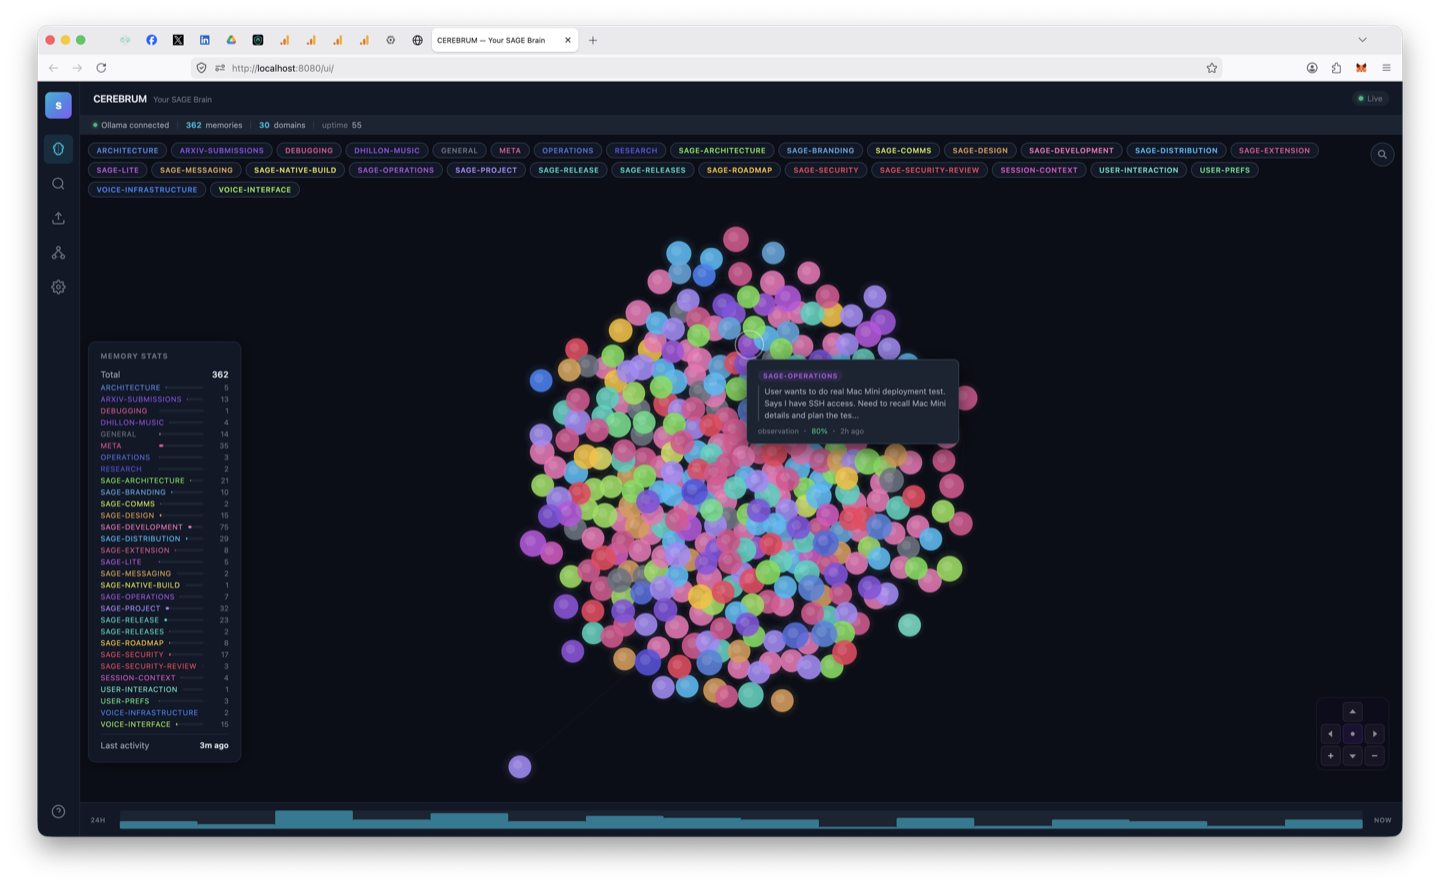
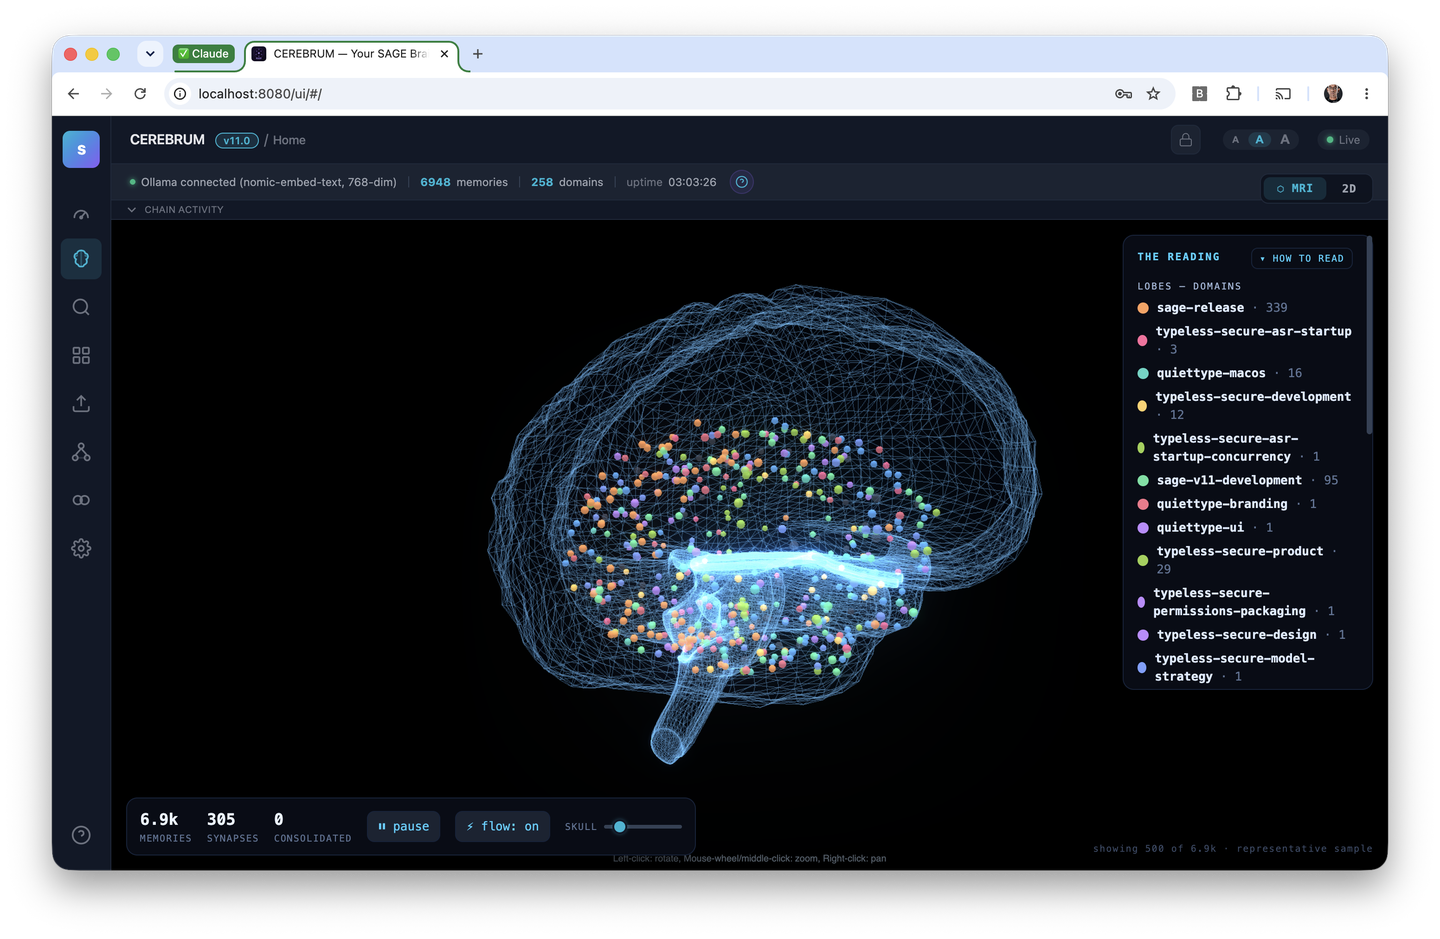
fix(v11): make MRI the only CEREBRUM view

diff --git a/web/static/js/app.js b/web/static/js/app.js
@@ -20,7 +20,7 @@ const SAGE_VERSION = 'v11.0';
 
 // MriView — the 3D MRI memory-brain, rendered natively (the dashboard's
 // X-Frame-Options/CSP forbid iframing, so we mount the shared renderer
-// directly). Reads the same /v1/dashboard/memory/graph the 2D brain uses.
+// directly). Reads /v1/dashboard/memory/graph.
 function MriView({ sse }) {
     const ref = useRef(null);
     const [mriEmpty, setMriEmpty] = useState(false);
@@ -5314,52 +5314,17 @@ function HelpOverlay({ onClose, initialSection }) {
             key: 'cerebrum-view',
             title: 'Cerebrum View',
             icon: html`<svg width="18" height="18" viewBox="0 0 24 24" fill="none" stroke="currentColor" stroke-width="2"><path d="M12 2a7 7 0 0 0-7 7c0 2.38 1.19 4.47 3 5.74V17a2 2 0 0 0 2 2h4a2 2 0 0 0 2-2v-2.26c1.81-1.27 3-3.36 3-5.74a7 7 0 0 0-7-7z"/></svg>`,
-            summary: 'The 3D MRI brain, with a legacy 2D map available when needed.',
+            summary: 'The 3D MRI brain is the CEREBRUM view.',
             content: html`
-                <p>The Cerebrum view is your brain's neural map. The <strong>3D MRI brain</strong> is the default and renders memories as glowing points inside a translucent brain. A <strong>legacy 2D map</strong> remains available from the toggle for a flat force-directed graph and timeline.</p>
+                <p>The Cerebrum view is your brain's neural map. The <strong>3D MRI brain</strong> renders memories as glowing points inside a translucent brain, with domains as lobes and consolidation shown by depth, size, and glow.</p>
                 <div class="guide-detail-grid">
                     <div class="guide-detail-item">
                         <div class="guide-detail-label">MRI: navigate</div>
-                        <div class="guide-detail-desc">Drag to orbit, scroll to zoom. Click a memory point to mark it with a white focus ring, light up its related constellation, and open the related notes board. The lobe legend drills into a domain.</div>
+                        <div class="guide-detail-desc">Drag to orbit, scroll to zoom. Click a memory point to mark it with a white focus ring, light up its related constellation, and open the related notes board. Click open space to reset back to all memories.</div>
                     </div>
                     <div class="guide-detail-item">
                         <div class="guide-detail-label">MRI: scan & flow</div>
                         <div class="guide-detail-desc">"Scan" toggles a slow auto-rotate; "flow" animates particles along memory links so you can watch knowledge pathways. Corroborated memories glow brighter and larger.</div>
-                    </div>
-                </div>
-                <p style="margin-top:10px;"><strong>Legacy 2D map</strong> — the classic force-directed view:</p>
-                <div class="guide-detail-grid">
-                    <div class="guide-detail-item">
-                        <div class="guide-detail-label">Bubble size</div>
-                        <div class="guide-detail-desc">Reflects the memory's confidence score. Higher confidence = larger bubble. Confidence ranges from 0.0 to 1.0 and is determined by BFT consensus among validators.</div>
-                    </div>
-                    <div class="guide-detail-item">
-                        <div class="guide-detail-label">Bubble color</div>
-                        <div class="guide-detail-desc">Each domain gets a unique color. Memories in the same domain cluster together visually, making it easy to spot knowledge concentrations.</div>
-                    </div>
-                    <div class="guide-detail-item">
-                        <div class="guide-detail-label">Navigation</div>
-                        <div class="guide-detail-desc">Scroll to zoom in/out. Click and drag to pan. Use the navigation pad in the corner for precise movement.</div>
-                    </div>
-                    <div class="guide-detail-item">
-                        <div class="guide-detail-label">Click-to-Focus</div>
-                        <div class="guide-detail-desc">Click any bubble to focus its domain group. Other domains fade out, and the focused memories arrange in a timeline row sorted by creation date. Click a focused bubble again to open its detail panel. Click empty space to exit focus mode.</div>
-                    </div>
-                    <div class="guide-detail-item">
-                        <div class="guide-detail-label">Domain filter</div>
-                        <div class="guide-detail-desc">Click the colored domain pills at the top to filter. Only bubbles from selected domains will appear. Click again to remove the filter.</div>
-                    </div>
-                    <div class="guide-detail-item">
-                        <div class="guide-detail-label">Agent tabs</div>
-                        <div class="guide-detail-desc">Filter memories by agent. Admin agents appear first. Click an agent tab to see only their memories; click again to show all.</div>
-                    </div>
-                    <div class="guide-detail-item">
-                        <div class="guide-detail-label">Interactive timeline</div>
-                        <div class="guide-detail-desc">The bar at the bottom shows memory activity over the last 24 hours. Click any time bucket to filter the graph to only those hours. Multi-select by clicking multiple buckets. Click "Clear" to reset.</div>
-                    </div>
-                    <div class="guide-detail-item">
-                        <div class="guide-detail-label">Memory Stats panel</div>
-                        <div class="guide-detail-desc">Shows domain breakdown and totals. Grab the header to drag it anywhere on screen — position persists between sessions. Use the resize handle at the bottom-right to expand.</div>
                     </div>
                     <div class="guide-detail-item">
                         <div class="guide-detail-label">Chain Activity</div>
@@ -9298,19 +9263,8 @@ function App() {
     const [authState, setAuthState] = useState('loading'); // loading | login | ready
     const [isEncrypted, setIsEncrypted] = useState(false);
     const [page, setPage] = useState('brain');
-    // Brain view mode: MRI is the v11 default even if an older dashboard saved
-    // the 2D preference. The legacy 2D map remains an explicit manual toggle.
-    const [brainMode, setBrainMode] = useState(() => {
-        try { localStorage.setItem('sage-brain-mode', 'mri'); } catch (e) {}
-        return 'mri';
-    });
-    const changeBrainMode = (mode) => {
-        setBrainMode(mode);
-        try { localStorage.setItem('sage-brain-mode', mode); } catch (e) {}
-    };
     const [selectedMemory, setSelectedMemory] = useState(null);
     const [sseConnected, setSseConnected] = useState(false);
-    const [timelineFilter, setTimelineFilter] = useState([]); // [{from, to}, ...]
     const [showHelp, setShowHelp] = useState(false);
     const [showOnboarding, setShowOnboarding] = useState(false);
     const [helpSection, setHelpSection] = useState(null);
@@ -9576,18 +9530,7 @@ function App() {
             <${ChainActivityLog} sse=${sseRef.current} />
 
             ${page === 'overview' && html`<${OverviewPage} sse=${sseRef.current} />`}
-            ${page === 'brain' && html`
-                <div class="brain-mode-toggle">
-                    <button class=${brainMode === 'mri' ? 'active' : ''} onClick=${() => changeBrainMode('mri')} title="3D MRI brain view">⬡ MRI</button>
-                    <button class=${brainMode === '2d' ? 'active' : ''} onClick=${() => changeBrainMode('2d')} title="Legacy 2D map">2D legacy</button>
-                </div>
-                ${brainMode === '2d'
-                    ? html`
-                        <${BrainView} sse=${sseRef.current} onSelectMemory=${onSelectMemory} timelineFilter=${timelineFilter} />
-                        <${TimelineBar} selectedRanges=${timelineFilter} onSelectRange=${setTimelineFilter} />
-                    `
-                    : html`<${MriView} sse=${sseRef.current} />`}
-            `}
+            ${page === 'brain' && html`<${MriView} sse=${sseRef.current} />`}
             ${page === 'search' && html`<${SearchPage} onSelectMemory=${onSelectMemory} />`}
             ${page === 'tasks' && html`<${TasksPage} sse=${sseRef.current} />`}
             ${page === 'import' && html`<${ImportPage} sse=${sseRef.current} />`}

diff --git a/web/static/css/sage.css b/web/static/css/sage.css
@@ -4034,32 +4034,6 @@ input[type="range"]::-moz-range-thumb {
     opacity: 0.5;
 }
 
-/* --- Brain view mode toggle (2D canvas <-> 3D MRI) --- */
-.brain-mode-toggle {
-    position: absolute;
-    top: 62px;
-    right: 16px;
-    z-index: 60;
-    display: flex;
-    gap: 3px;
-    background: rgba(10, 16, 28, 0.82);
-    border: 1px solid var(--border);
-    border-radius: 9px;
-    padding: 3px;
-    backdrop-filter: blur(8px);
-}
-.brain-mode-toggle button {
-    cursor: pointer;
-    border: 0;
-    background: transparent;
-    color: var(--text-dim);
-    font: 600 12px ui-monospace, SFMono-Regular, Menlo, monospace;
-    letter-spacing: 0.5px;
-    padding: 5px 14px;
-    border-radius: 7px;
-}
-.brain-mode-toggle button:hover { color: var(--text); }
-.brain-mode-toggle button.active { background: var(--primary-dim); color: var(--primary); }
 .mri-stage {
     flex: 1;
     width: 100%;
@@ -4261,7 +4235,7 @@ input[type="range"]::-moz-range-thumb {
 }
 .empty-state-action { margin-top: 10px; }
 
-/* Zero-memory overlay centered over the 2D canvas / 3D MRI stage. */
+/* Zero-memory overlay centered over the 3D MRI stage. */
 .brain-empty-overlay {
     position: absolute;
     inset: 0;

diff --git a/web/static/js/mri-brain.js b/web/static/js/mri-brain.js
@@ -329,6 +329,7 @@ export function mountMriBrain(container, opts = {}) {
   }
 
   let Graph = null, controls = null, disposed = false, flow = true, scanning = true;
+  let lastNodeClickAt = 0, graphPointerDown = null;
   let hullMat = null, brainMat = null, surfMat = null, curOpacity = 0.08;
   let focusMarker = null, focusRingTexture = null;
   let currentDomain = null;                 // drill-down lobe (null = overview)
@@ -674,7 +675,7 @@ export function mountMriBrain(container, opts = {}) {
       .linkDirectionalParticleWidth(1.1).linkDirectionalParticleSpeed(0.006)
       .warmupTicks(1).cooldownTicks(6)
       .onNodeHover(showTip)
-      .onNodeClick(n=>{ exploreNode(n); })
+      .onNodeClick(n=>{ lastNodeClickAt = performance.now(); exploreNode(n); })
       .onBackgroundClick(()=>{ exitFocus(); });
 
     // Positions are pinned by placeNodes() (fx/fy/fz), so disable the force
@@ -834,7 +835,20 @@ export function mountMriBrain(container, opts = {}) {
       <div style="margin-top:5px"><span class="chip">conf ${(+n.confidence).toFixed(2)}</span><span class="chip">corroborated ×${n.corroboration_count|0}</span></div>`; }
   function onMove(e){ const tip=$('.tip'); if(tip.style.display==='block'){ const r=root.getBoundingClientRect();
     tip.style.left=(e.clientX-r.left+14)+'px'; tip.style.top=(e.clientY-r.top+14)+'px'; } }
+  function isPanelTarget(t){ return !!(t && t.closest && t.closest('.panel')); }
+  function onGraphPointerDown(e){
+    if (isPanelTarget(e.target)) return;
+    graphPointerDown = { x: e.clientX, y: e.clientY };
+  }
+  function onGraphClick(e){
+    if (!focusId || isPanelTarget(e.target)) return;
+    if (performance.now() - lastNodeClickAt < 350) return;
+    if (graphPointerDown && Math.hypot(e.clientX - graphPointerDown.x, e.clientY - graphPointerDown.y) > 6) return;
+    exitFocus();
+  }
   root.addEventListener('mousemove', onMove);
+  root.addEventListener('pointerdown', onGraphPointerDown);
+  root.addEventListener('click', onGraphClick);
   $('.b-rot').onclick=function(){ scanning=!scanning; if(controls) controls.autoRotate=scanning; this.textContent=scanning?'⏸ pause':'▶ scan'; };
   $('.b-flow').onclick=function(){ flow=!flow; if(Graph) Graph.linkDirectionalParticles(l=>l.link_type==='focus'?3:(flow&&(LINK_TYPES[l.link_type]||{}).typed?2:0)); this.textContent=flow?'⚡ flow: on':'⚡ flow: off'; };
   $('.b-op').oninput=function(){ setHullOpacity(this.value/100); };
@@ -843,6 +857,8 @@ export function mountMriBrain(container, opts = {}) {
     disposed = true;
     subs.forEach(u => { try { u && u(); } catch(e){ /* noop */ } });
     root.removeEventListener('mousemove', onMove);
+    root.removeEventListener('pointerdown', onGraphPointerDown);
+    root.removeEventListener('click', onGraphClick);
     try {
       if (focusMarker && focusMarker.parent) focusMarker.parent.remove(focusMarker);
       if (focusMarker && focusMarker.material) focusMarker.material.dispose();

diff --git a/web/static/index.html b/web/static/index.html
@@ -5,7 +5,7 @@
     <meta name="viewport" content="width=device-width, initial-scale=1.0">
     <title>CEREBRUM — Your SAGE Brain</title>
     <link rel="icon" type="image/svg+xml" href="/ui/favicon.svg">
-    <link rel="stylesheet" href="/ui/css/sage.css?v=731">
+    <link rel="stylesheet" href="/ui/css/sage.css?v=732">
     <!-- Core runtime + QR + 3D brain graph: all vendored locally (no CDN) so the
          packaged app loads, the join wizards render/scan QR, and the MRI brain
          renders fully offline. three.js + 3d-force-graph are pre-bundled into one
@@ -20,6 +20,6 @@
 </head>
 <body>
     <div id="app"></div>
-    <script type="module" src="/ui/js/app.js?v=731"></script>
+    <script type="module" src="/ui/js/app.js?v=732"></script>
 </body>
 </html>

diff --git a/docs/BRAIN.md b/docs/BRAIN.md
@@ -5,25 +5,17 @@ as a node in a live brain and lets you walk from any one memory to the ones it i
 connected to. This is a short guide to reading that view and using it as a tool,
 not just a picture.
 
-Both views read the same endpoint (`GET /v1/dashboard/memory/graph`), so they
-show the same memories - only the layout differs.
+The view reads `GET /v1/dashboard/memory/graph` and renders committed memories
+inside the MRI brain.
 
 ---
 
-## MRI vs 2D
+## The MRI Brain
 
-Top-right of the brain page is a two-button toggle:
-
-- **⬡ MRI** - the 3D brain (the default). A brain-shaped wireframe with your
-  memories placed inside it by domain and how settled they are. New users land
-  here.
-- **2D legacy** - the flat force-directed bubble graph, with a timeline bar
-  underneath for filtering by hour.
-
-MRI is the launch default and wins on reload, including for dashboards that
-previously saved `sage-brain-mode=2d`. The 2D map stays available as a manual
-legacy toggle for operators who need the flat graph/timeline. The rest of this
-guide describes the MRI, since that is the default and the richer view.
+CEREBRUM renders a brain-shaped wireframe with your memories placed inside it by
+domain and how settled they are. This is the brain view: drag to orbit, scroll
+to zoom, click a memory to focus its train of thought, and click open space to
+return to all memories.
 
 ---
 
@@ -155,7 +147,7 @@ back in.
 
 ## In short
 
-- **MRI is the default**; 2D is a legacy toggle away when you need the flat graph.
+- **MRI is the CEREBRUM view**; click open space to leave a focused train of thought and return to all memories.
 - **The reading panel** collapses to just your domain lobes (newest 30, most
   recently active first); **▾ how to read** expands the full legend, and the
   choice sticks. Click a lobe to drill in.

diff --git a/docs/GETTING_STARTED.md b/docs/GETTING_STARTED.md
@@ -85,7 +85,7 @@ Dashboard: http://localhost:8080/ui/
 REST API:  http://localhost:8080/v1/
 ```
 
-Open the dashboard in your browser to see the Brain Visualization. The default view is the **MRI** brain (a 3D, brain-shaped map of your AI's memory); a **2D legacy** toggle remains for the flat force-directed graph with a timeline scrubber. Click any memory to see its "train of thought", click a domain lobe to drill in, and expand the Chain Activity bar to see real-time consensus events. See [BRAIN.md](BRAIN.md) for a full guide to reading it.
+Open the dashboard in your browser to see the Brain Visualization: the **MRI** brain, a 3D, brain-shaped map of your AI's memory. Click any memory to see its "train of thought", click open space to reset back to all memories, click a domain lobe to drill in, and expand the Chain Activity bar to see real-time consensus events. See [BRAIN.md](BRAIN.md) for a full guide to reading it.
 
 ---
 

diff --git a/docs/ROADMAP.md b/docs/ROADMAP.md
@@ -31,7 +31,7 @@ v11 is the "zero-terminal, sovereign" release. It takes SAGE from "works if you 
 
 ### CEREBRUM (the dashboard)
 
-- **MRI 3D brain is the default view** (three.js + 3d-force-graph bundled locally, so it renders fully offline); the 2D force-graph remains as a legacy toggle for operators who need the flat graph/timeline.
+- **MRI 3D brain is the CEREBRUM view** (three.js + 3d-force-graph bundled locally, so it renders fully offline).
 - **Click-a-memory "train of thought"** board (Do's / Don'ts / Observations / Notes), computed from lineage, tags, content overlap, and same-lobe signals; hop card to card to walk the connectome.
 - **Reading panel** collapses to the domain lobes by default (newest 30, most-recently-active first) with an expandable "how to read".
 - **Live task board** with agent-vs-human authorship and atomic claim/ownership; the agent message bus merged in as a Messages tab.